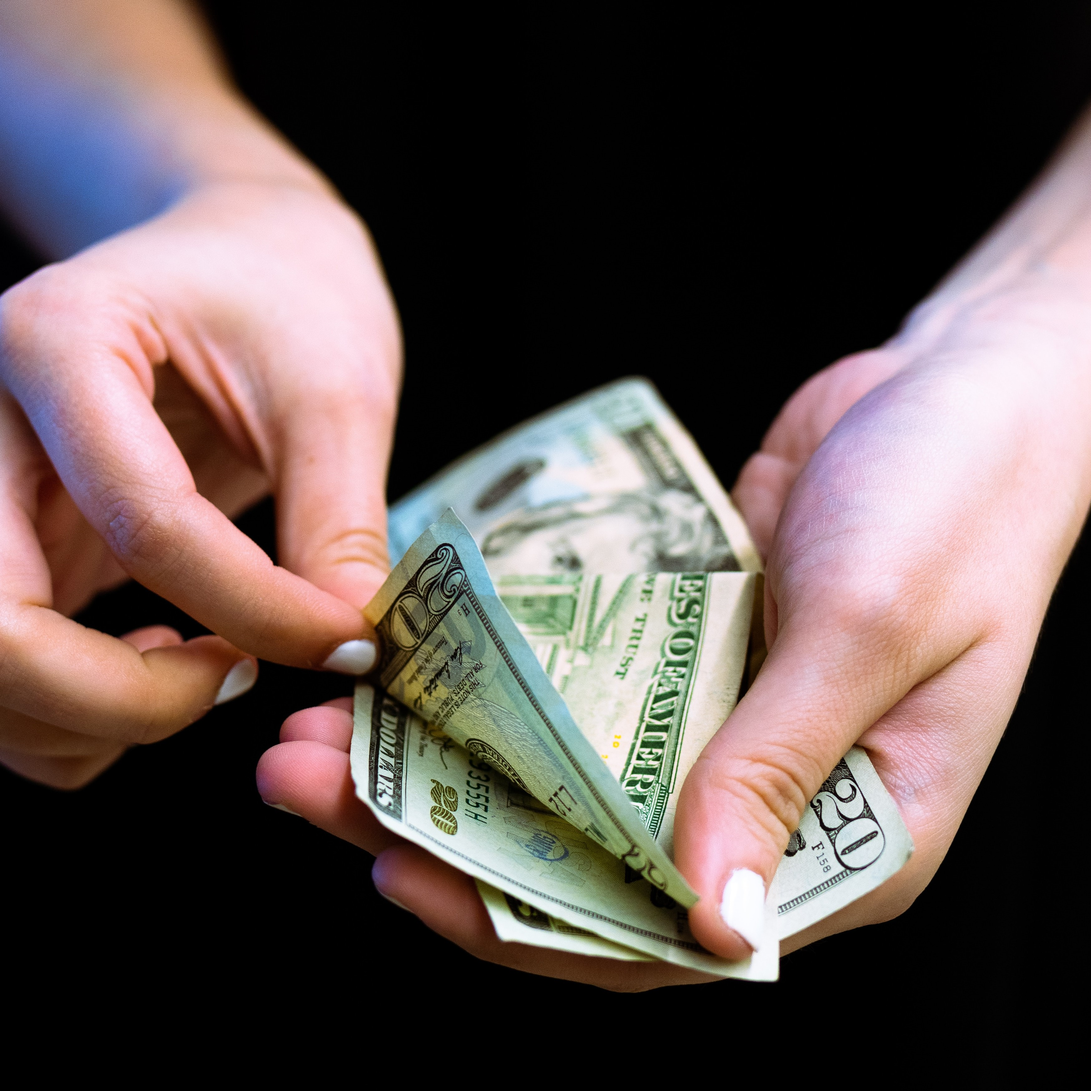
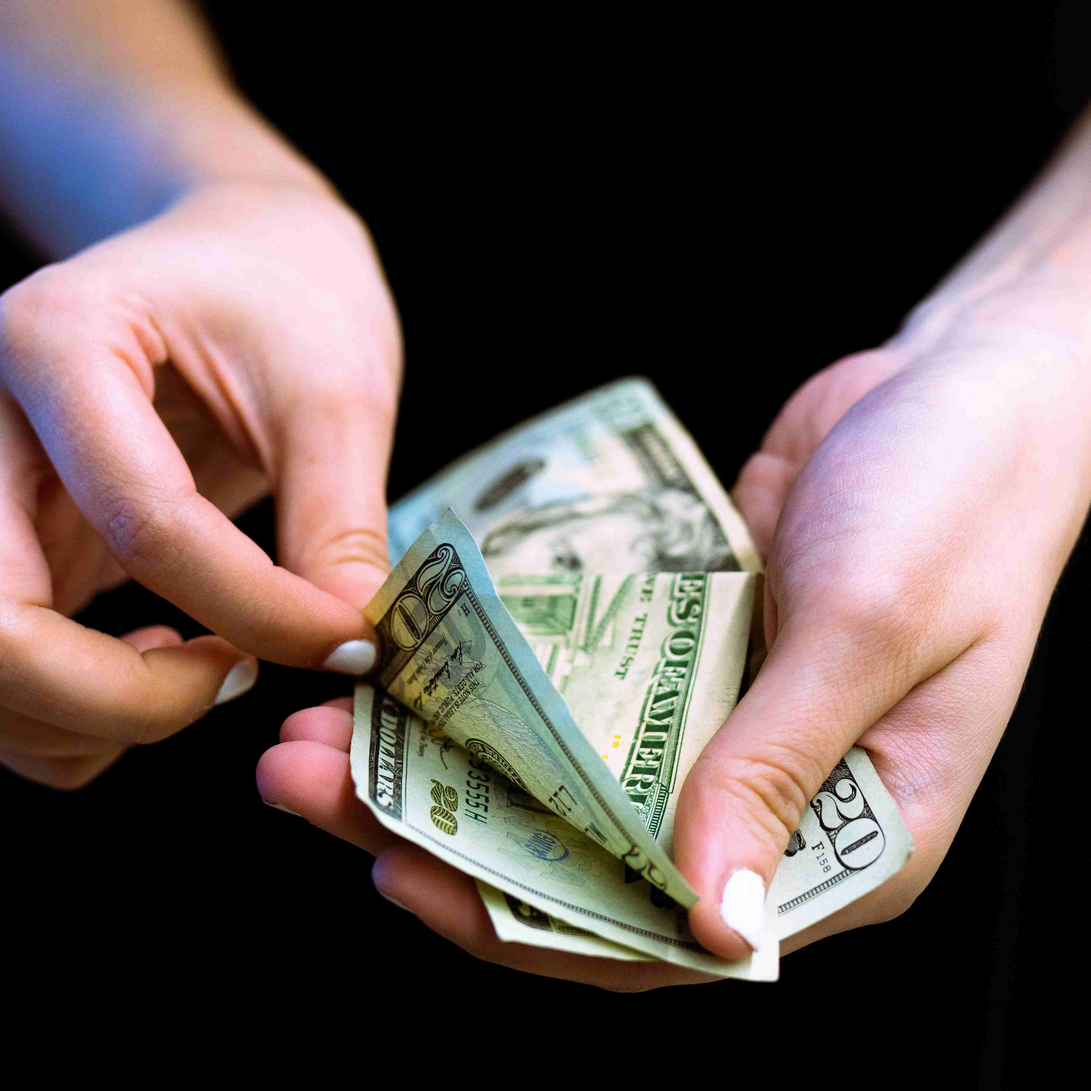
fix bar, compress assets

diff --git a/css/app.css b/css/app.css
@@ -160,8 +160,21 @@ p {
   transition: background-color 0.3s ease;
 }
 
-.navbar-container img {
-  height: 2rem;
+.logo {
+  display: flex;
+  align-items: center;
+  justify-content: center;
+}
+
+.logo img {
+  height: 1.2rem;
+  margin-right: 0.5rem;
+}
+
+.logo p {
+  font-size: 1.1rem;
+  color: #4ba3f2;
+  font-weight: 500;
 }
 
 .navbar-menu {
@@ -200,6 +213,12 @@ p {
   height: 3px;
   background-color: #4ba3f2;
   transition: 0.2s ease-in-out;
+}
+
+.navbar-container .hamburger .bar.bar-putih {
+  width: 100%;
+  height: 3px;
+  background-color: #fff;
 }
 
 .navbar-container .hamburger:hover .bar {
@@ -497,8 +516,15 @@ p {
   width: 22rem;
 }
 
-.footer-box img {
-  width: 9rem;
+.logo-footer {
+  display: flex;
+  align-items: center;
+  justify-content: start;
+}
+
+.logo-footer img {
+  height: 1.5rem;
+  margin-right: 0.5rem;
 }
 
 .footer-box p {
@@ -880,10 +906,6 @@ a.whatsapp p {
     padding: 1rem 2rem;
   }
 
-  .navbar-container img {
-    height: 2rem;
-  }
-
   .navbar-menu {
     width: 400px;
   }
@@ -1102,13 +1124,19 @@ a.whatsapp p {
   .navbar-container {
     width: 100%;
     padding: 1rem 1rem;
-    background-color: rgba(0, 0, 0, 0.4);
+    background-color: rgba(0, 0, 0, 0);
     position: fixed;
     transition: background-color 0.2s ease-in-out;
   }
 
-  .navbar-container img {
-    height: 1.5rem;
+  .logo img {
+    height: 1.4rem;
+    display: none;
+  }
+
+  .logo p {
+    font-size: 1.1rem;
+    display: none;
   }
 
   .navbar-menu a {
@@ -1130,14 +1158,17 @@ a.whatsapp p {
 
   .navbar-container .hamburger.active .bar:nth-child(1) {
     width: 20px;
+    background-color: #4ba3f2;
   }
 
   .navbar-container .hamburger.active .bar:nth-child(2) {
     width: 15px;
+    background-color: #4ba3f2;
   }
 
   .navbar-container .hamburger.active .bar:nth-child(3) {
     width: 10px;
+    background-color: #4ba3f2;
   }
 
   .navbar-container .navbar-menu {
@@ -1166,7 +1197,7 @@ a.whatsapp p {
 
   /* Property */
   .property-container {
-    padding: 1.5rem 1rem;
+    padding: 1.5rem 1rem 1rem 1rem;
   }
 
   .card-box {
@@ -1196,6 +1227,11 @@ a.whatsapp p {
   .property-content-3 {
     display: none;
   }
+
+  .lihat-selengkapnya-box {
+    margin-top: 1rem;
+  }
+
   /* Why */
   .why-boxs {
     width: 100%;

diff --git a/javascript/barScrool.js b/javascript/barScrool.js
@@ -1,0 +1,14 @@
+window.addEventListener("scroll", function () {
+  let hamburgerBars = document.querySelectorAll(".hamburger .bar");
+
+  if (window.scrollY > 0) {
+    for (let i = 0; i < hamburgerBars.length; i++) {
+      hamburgerBars[i].style.backgroundColor = "#4ba3f2";
+    }
+  } else {
+    for (let i = 0; i < hamburgerBars.length; i++) {
+      hamburgerBars[i].style.backgroundColor =
+        "#ffffff"; /* Warna awal (transparan) */
+    }
+  }
+});

diff --git a/javascript/navbarScrool.js b/javascript/navbarScrool.js
@@ -4,6 +4,6 @@ window.addEventListener("scroll", function () {
     navbar.style.backgroundColor = "#ffffff"; /* Warna saat discroll */
   } else {
     navbar.style.backgroundColor =
-      "rgba(0, 0, 0, 0.4)"; /* Warna awal (transparan) */
+      "rgba(0, 0, 0, 0.0)"; /* Warna awal (transparan) */
   }
 });

diff --git a/index.php b/index.php
@@ -21,9 +21,12 @@ include 'database/connection.php';
   <!-- Header -->
   <header class="slider-container-image">
     <div class="slider-image">
-      <img src="image/hero1.jpg" alt="Image 1" />
-      <img src="image/hero2.jpg" alt="Image 2" />
-      <img src="image/hero3.jpg" alt="Image 3" />
+      <img src="image/1.jpg" alt="Image 1" />
+      <img src="image/2.jpg" alt="Image 2" />
+      <img src="image/6.jpg" alt="Image 6" />
+      <img src="image/7.jpg" alt="Image 7" />
+      <img src="image/9.jpg" alt="Image 9" />
+      <img src="image/10.jpg" alt="Image 10" />
     </div>
     <div class="slider-overlay">
       <div class="header-box">
@@ -43,7 +46,10 @@ include 'database/connection.php';
 
   <!-- Navbar -->
   <nav class="navbar-container">
-    <img src="image/logo.png" alt="logo" />
+    <div class="logo">
+      <img src="image/logo-3.png" alt="logo" />
+      <p>bayview.</p>
+    </div>
     <div class="navbar-menu">
       <a href="index.php">home</a>
       <a href="aboutMe.php">about me</a>
@@ -52,9 +58,9 @@ include 'database/connection.php';
       <a href="agent.php">agent</a>
     </div>
     <div class="hamburger">
-      <div class="bar"></div>
-      <div class="bar"></div>
-      <div class="bar"></div>
+      <div class="bar bar-putih"></div>
+      <div class="bar bar-putih"></div>
+      <div class="bar bar-putih"></div>
     </div>
   </nav>
   <!-- Akhir navbar -->
@@ -281,7 +287,10 @@ include 'database/connection.php';
   <footer class="footer-container">
     <div class="footer-boxs">
       <div class="footer-box bayview">
-        <img src="image/logo.png" alt="logo" />
+        <div class="logo-footer">
+          <img src="image/logo-3.png" alt="logo" />
+          <h5>bayview.</h5>
+        </div>
         <p>
           Kami mengutamakan kualitas dalam setiap aspek pekerjaan yang kami
           lakukan. Tim kami terdiri dari profesional berpengalaman yang ahli
@@ -314,6 +323,7 @@ include 'database/connection.php';
   <!-- Javascript -->
   <script src="javascript/navbar.js"></script>
   <script src="javascript/navbarScrool.js"></script>
+  <script src="javascript/barScrool.js"></script>
   <script src="javascript/sliderImage.js"></script>
   <script src="javascript/sliderReview.js"></script>
 

diff --git a/agent.php b/agent.php
@@ -21,7 +21,10 @@ include('database/connection.php');
 <body>
   <!-- Navbar -->
   <nav class="navbar-container navbar-fix">
-    <img src="image/logo.png" alt="logo" />
+    <div class="logo">
+      <img src="image/logo-3.png" alt="logo" />
+      <p>bayview.</p>
+    </div>
     <div class="navbar-menu">
       <a href="index.php">home</a>
       <a href="aboutMe.php">about me</a>
@@ -71,7 +74,10 @@ include('database/connection.php');
   <footer class="footer-container">
     <div class="footer-boxs">
       <div class="footer-box bayview">
-        <img src="image/logo.png" alt="logo" />
+        <div class="logo-footer">
+          <img src="image/logo-3.png" alt="logo" />
+          <h5>bayview.</h5>
+        </div>
         <p>
           Kami mengutamakan kualitas dalam setiap aspek pekerjaan yang kami
           lakukan. Tim kami terdiri dari profesional berpengalaman yang ahli

diff --git a/property.php b/property.php
@@ -20,7 +20,10 @@ include 'database/connection.php';
 <body>
   <!-- Navbar -->
   <nav class="navbar-container navbar-fix">
-    <img src="image/logo.png" alt="logo" />
+    <div class="logo">
+      <img src="image/logo-3.png" alt="logo" />
+      <p>bayview.</p>
+    </div>
     <div class="navbar-menu">
       <a href="index.php">home</a>
       <a href="aboutMe.php">about me</a>
@@ -104,7 +107,10 @@ include 'database/connection.php';
   <footer class="footer-container">
     <div class="footer-boxs">
       <div class="footer-box bayview">
-        <img src="image/logo.png" alt="logo" />
+        <div class="logo-footer">
+          <img src="image/logo-3.png" alt="logo" />
+          <h5>bayview.</h5>
+        </div>
         <p>
           Kami mengutamakan kualitas dalam setiap aspek pekerjaan yang kami
           lakukan. Tim kami terdiri dari profesional berpengalaman yang ahli

diff --git a/detail.php b/detail.php
@@ -28,7 +28,10 @@ if (isset($_GET['property'])) {
 <body>
   <!-- Navbar -->
   <nav class="navbar-container navbar-fix">
-    <img src="image/logo.png" alt="logo" />
+    <div class="logo">
+      <img src="image/logo-3.png" alt="logo" />
+      <p>bayview.</p>
+    </div>
     <div class="navbar-menu">
       <a href="index.php">home</a>
       <a href="aboutMe.php">about me</a>
@@ -132,7 +135,10 @@ if (isset($_GET['property'])) {
   <footer class="footer-container">
     <div class="footer-boxs">
       <div class="footer-box bayview">
-        <img src="image/logo.png" alt="logo" />
+        <div class="logo-footer">
+          <img src="image/logo-3.png" alt="logo" />
+          <h5>bayview.</h5>
+        </div>
         <p>
           Kami mengutamakan kualitas dalam setiap aspek pekerjaan yang kami
           lakukan. Tim kami terdiri dari profesional berpengalaman yang ahli

diff --git a/aboutMe.php b/aboutMe.php
@@ -17,7 +17,10 @@
 <body>
   <!-- Navbar -->
   <nav class="navbar-container navbar-fix">
-    <img src="image/logo.png" alt="logo" />
+    <div class="logo">
+      <img src="image/logo-3.png" alt="logo" />
+      <p>bayview.</p>
+    </div>
     <div class="navbar-menu">
       <a href="index.php">home</a>
       <a href="aboutMe.php">about me</a>
@@ -69,7 +72,10 @@
   <footer class="footer-container">
     <div class="footer-boxs">
       <div class="footer-box bayview">
-        <img src="image/logo.png" alt="logo" />
+        <div class="logo-footer">
+          <img src="image/logo-3.png" alt="logo" />
+          <h5>bayview.</h5>
+        </div>
         <p>
           Kami mengutamakan kualitas dalam setiap aspek pekerjaan yang kami
           lakukan. Tim kami terdiri dari profesional berpengalaman yang ahli

diff --git a/contact.php b/contact.php
@@ -17,7 +17,10 @@
 <body>
   <!-- Navbar -->
   <nav class="navbar-container navbar-fix">
-    <img src="image/logo.png" alt="logo" />
+    <div class="logo">
+      <img src="image/logo-3.png" alt="logo" />
+      <p>bayview.</p>
+    </div>
     <div class="navbar-menu">
       <a href="index.php">home</a>
       <a href="aboutMe.php">about me</a>
@@ -70,7 +73,10 @@
   <footer class="footer-container">
     <div class="footer-boxs">
       <div class="footer-box bayview">
-        <img src="image/logo.png" alt="logo" />
+        <div class="logo-footer">
+          <img src="image/logo-3.png" alt="logo" />
+          <h5>bayview.</h5>
+        </div>
         <p>
           Kami mengutamakan kualitas dalam setiap aspek pekerjaan yang kami
           lakukan. Tim kami terdiri dari profesional berpengalaman yang ahli
